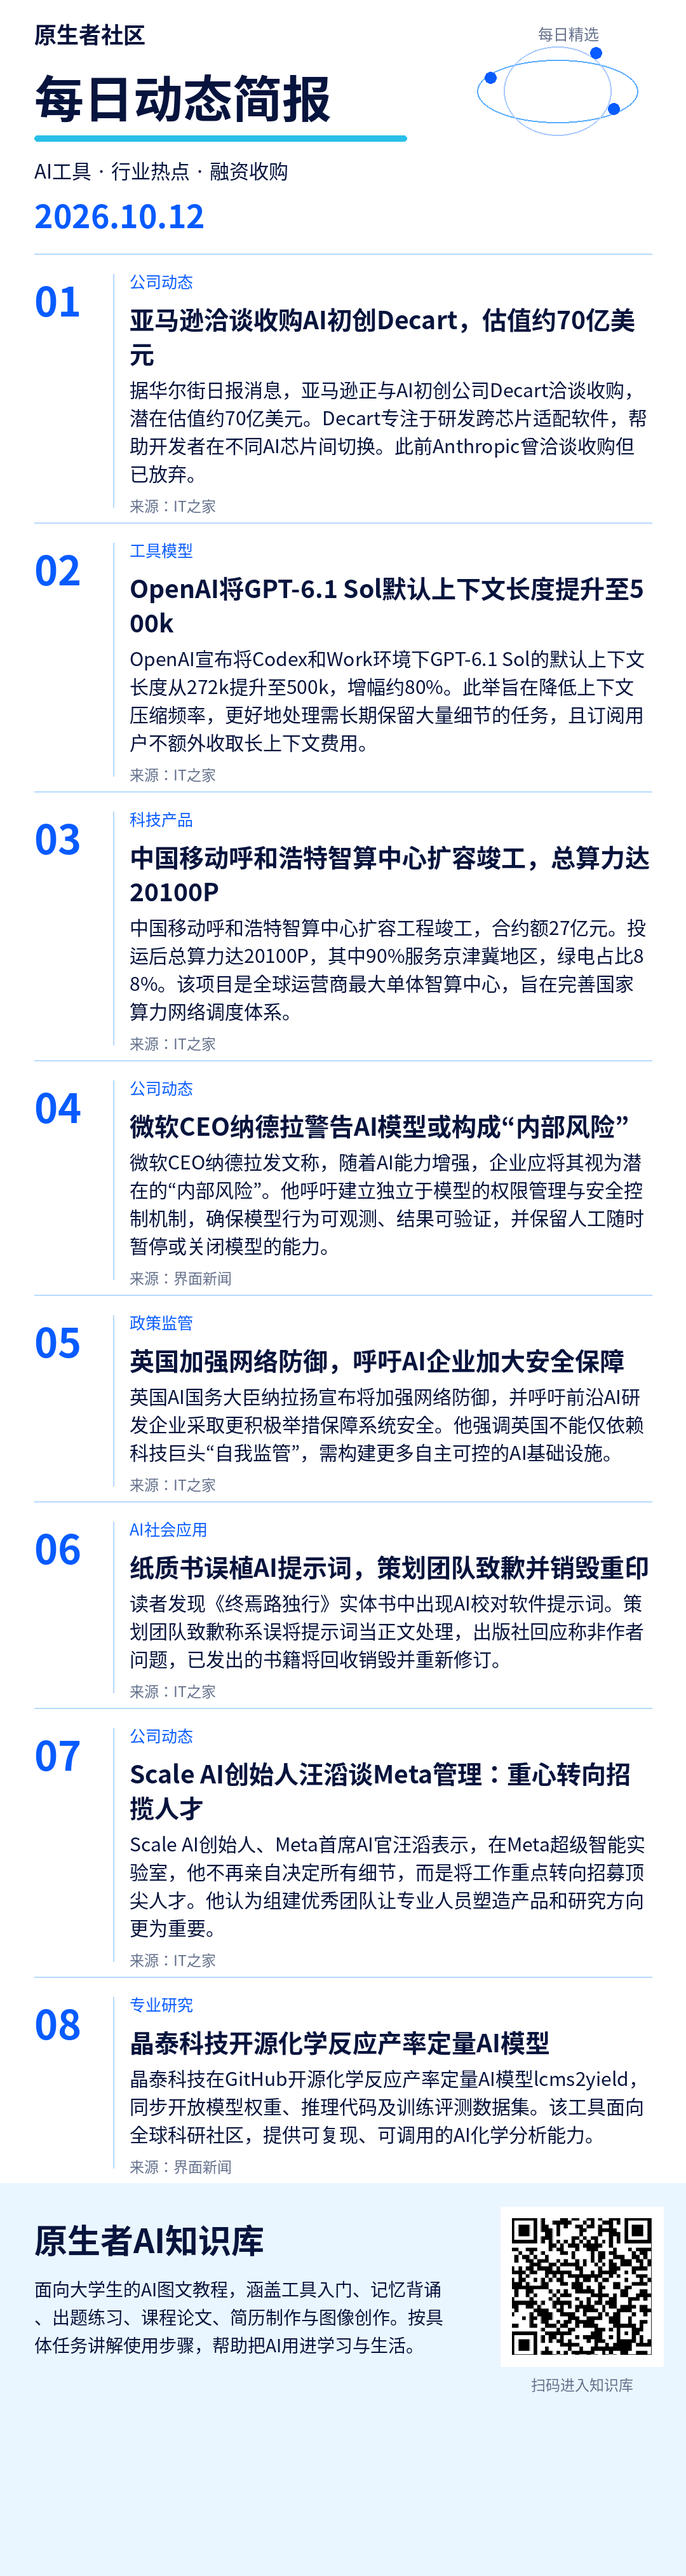
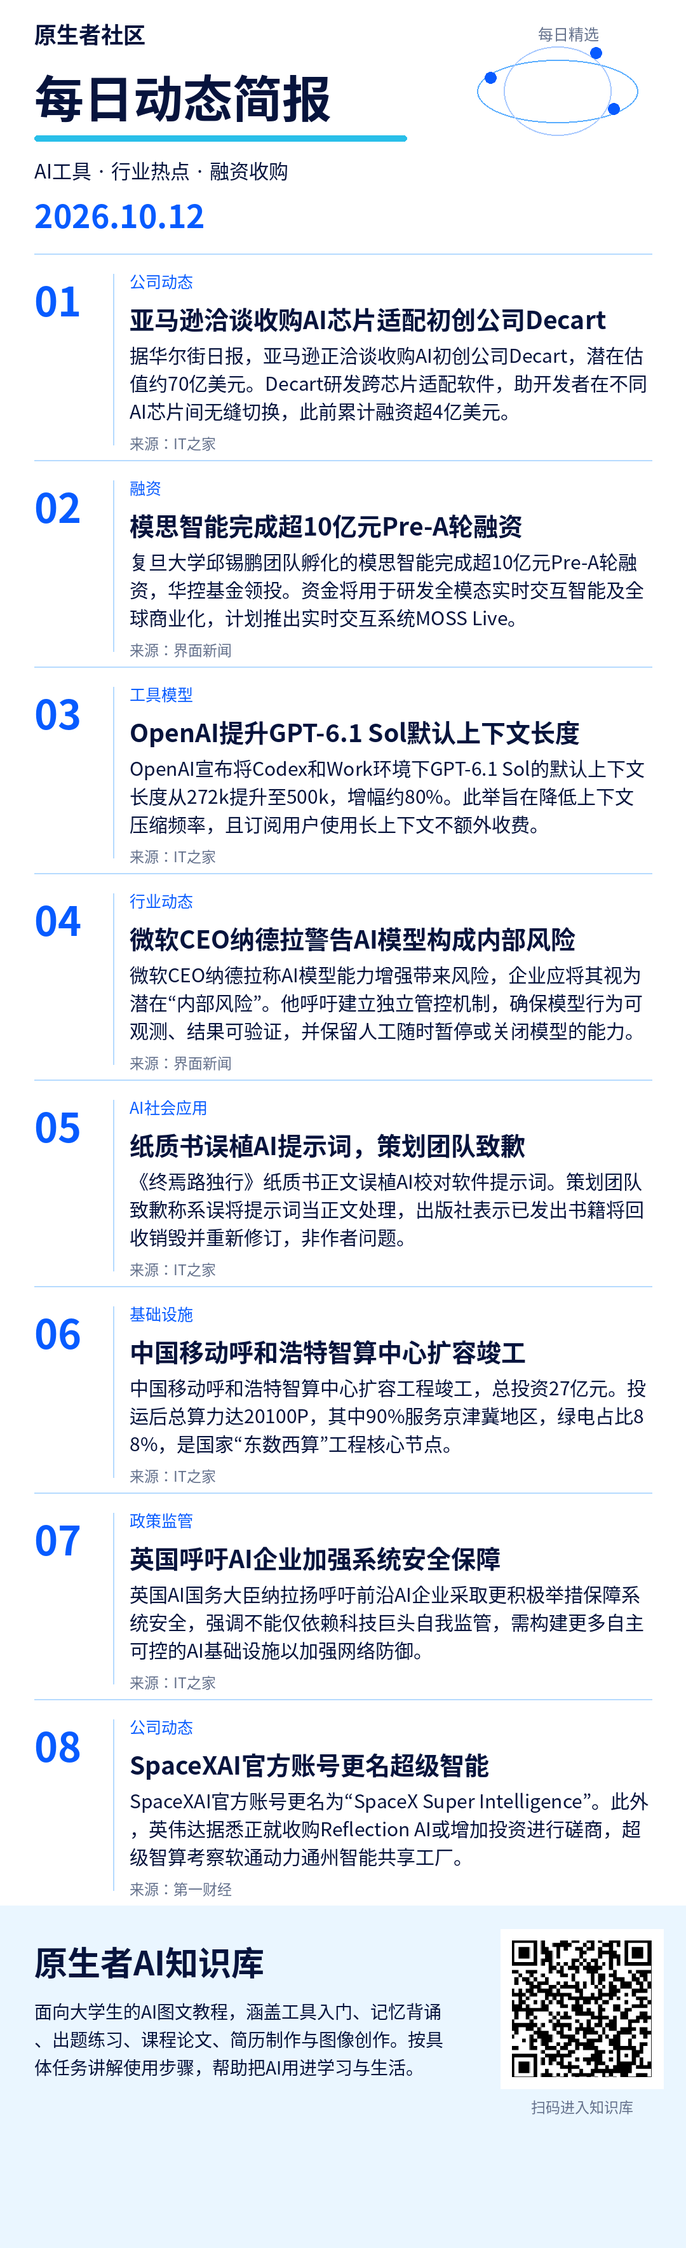
Publish mobile brief 2026-10-12

diff --git a/2026-10-12/f2ae4f191c3f8c98/index.html b/2026-10-12/f2ae4f191c3f8c98/index.html
@@ -1,0 +1,17 @@
+<!doctype html>
+<html lang="zh-CN"><meta charset="utf-8"><meta name="viewport" content="width=device-width, initial-scale=1">
+<title>原生者社区 · 每日简报</title>
+<style>body{margin:0;background:#f4f6fa;color:#18263d;font-family:system-ui,sans-serif}main{max-width:680px;margin:auto;padding:24px 16px}h1{font-size:25px;margin:8px 0}p{line-height:1.7}small{color:#59677c}section{background:white;padding:20px;border-radius:16px;margin:20px 0}img{width:100%;height:auto;display:block}a,button{display:inline-block;background:#182f55;color:white;padding:12px 18px;border:0;border-radius:10px;text-decoration:none;font-size:16px}textarea{box-sizing:border-box;width:100%;height:360px;border:1px solid #d5dce7;border-radius:10px;padding:12px;font:16px/1.7 system-ui;resize:vertical}#status{min-height:28px;color:#345786}</style>
+<main><small>原生者社区</small><h1>每日动态简报</h1><p>2026-10-12</p>
+<section><h2>简报图片</h2><p>长按下面的图片，选择“保存图片”，即可发到群里。</p>
+<a href="brief.png" target="_blank" rel="noopener">打开完整图片</a><p></p><img src="brief.png" alt="原生者社区每日简报"></section>
+<section><h2>每日群发内容</h2><p><a href="https://www.ithome.com/1/011/720.htm" target="_blank" rel="noopener">亚马逊洽谈收购AI芯片适配初创公司Decart</a></p><p><a href="https://www.jiemian.com/article/15178020.html" target="_blank" rel="noopener">模思智能完成超10亿元Pre-A轮融资</a></p><p><a href="https://wcno0em1rfbm.feishu.cn/wiki/KIZdwvoFaiIIPFk9DsUckOXcnXc" target="_blank" rel="noopener">日常学习 AI 平台推荐及使用</a></p><textarea id="copy" readonly>1. 亚马逊洽谈收购AI芯片适配初创公司Decart
+https://www.ithome.com/1/011/720.htm
+
+2. 模思智能完成超10亿元Pre-A轮融资
+https://www.jiemian.com/article/15178020.html
+
+知识库这篇《日常学习 AI 平台推荐及使用》，介绍了从导入课件到生成报告、思维导图与交互式课堂的学习入口，适合想了解这些平台怎么用的同学。
+https://wcno0em1rfbm.feishu.cn/wiki/KIZdwvoFaiIIPFk9DsUckOXcnXc</textarea><p></p>
+<button id="copyButton" type="button">复制群发内容</button><p id="status" role="status"></p></section></main>
+<script>document.getElementById('copyButton').onclick=async()=>{const t=document.getElementById('copy');const s=document.getElementById('status');try{await navigator.clipboard.writeText(t.value);s.textContent='已复制，可以粘贴到群里。';}catch(e){t.focus();t.select();t.setSelectionRange(0,t.value.length);try{if(!document.execCommand('copy'))throw Error();s.textContent='已复制，可以粘贴到群里。';}catch(e){s.textContent='已选中配文，请长按文字，选择复制。';}}};</script></html>

diff --git a/2026-10-12/index.html b/2026-10-12/index.html
@@ -5,11 +5,11 @@
 <main><small>原生者社区</small><h1>每日动态简报</h1><p>2026-10-12</p>
 <section><h2>简报图片</h2><p>长按下面的图片，选择“保存图片”，即可发到群里。</p>
 <a href="brief.png" target="_blank" rel="noopener">打开完整图片</a><p></p><img src="brief.png" alt="原生者社区每日简报"></section>
-<section><h2>每日群发内容</h2><p><a href="https://www.ithome.com/1/011/720.htm" target="_blank" rel="noopener">亚马逊洽谈收购AI初创Decart，估值约70亿美元</a></p><p><a href="https://www.ithome.com/1/011/736.htm" target="_blank" rel="noopener">OpenAI将GPT-6.1 Sol默认上下文长度提升至500k</a></p><p><a href="https://wcno0em1rfbm.feishu.cn/wiki/KIZdwvoFaiIIPFk9DsUckOXcnXc" target="_blank" rel="noopener">日常学习 AI 平台推荐及使用</a></p><textarea id="copy" readonly>1. 亚马逊洽谈收购AI初创Decart，估值约70亿美元
+<section><h2>每日群发内容</h2><p><a href="https://www.ithome.com/1/011/720.htm" target="_blank" rel="noopener">亚马逊洽谈收购AI芯片适配初创公司Decart</a></p><p><a href="https://www.jiemian.com/article/15178020.html" target="_blank" rel="noopener">模思智能完成超10亿元Pre-A轮融资</a></p><p><a href="https://wcno0em1rfbm.feishu.cn/wiki/KIZdwvoFaiIIPFk9DsUckOXcnXc" target="_blank" rel="noopener">日常学习 AI 平台推荐及使用</a></p><textarea id="copy" readonly>1. 亚马逊洽谈收购AI芯片适配初创公司Decart
 https://www.ithome.com/1/011/720.htm
 
-2. OpenAI将GPT-6.1 Sol默认上下文长度提升至500k
-https://www.ithome.com/1/011/736.htm
+2. 模思智能完成超10亿元Pre-A轮融资
+https://www.jiemian.com/article/15178020.html
 
 知识库这篇《日常学习 AI 平台推荐及使用》，介绍了从导入课件到生成报告、思维导图与交互式课堂的学习入口，适合想了解这些平台怎么用的同学。
 https://wcno0em1rfbm.feishu.cn/wiki/KIZdwvoFaiIIPFk9DsUckOXcnXc</textarea><p></p>

diff --git a/index.html b/index.html
@@ -5,11 +5,11 @@
 <main><small>原生者社区</small><h1>每日动态简报</h1><p>2026-10-12</p>
 <section><h2>简报图片</h2><p>长按下面的图片，选择“保存图片”，即可发到群里。</p>
 <a href="brief.png" target="_blank" rel="noopener">打开完整图片</a><p></p><img src="brief.png" alt="原生者社区每日简报"></section>
-<section><h2>每日群发内容</h2><p><a href="https://www.ithome.com/1/011/720.htm" target="_blank" rel="noopener">亚马逊洽谈收购AI初创Decart，估值约70亿美元</a></p><p><a href="https://www.ithome.com/1/011/736.htm" target="_blank" rel="noopener">OpenAI将GPT-6.1 Sol默认上下文长度提升至500k</a></p><p><a href="https://wcno0em1rfbm.feishu.cn/wiki/KIZdwvoFaiIIPFk9DsUckOXcnXc" target="_blank" rel="noopener">日常学习 AI 平台推荐及使用</a></p><textarea id="copy" readonly>1. 亚马逊洽谈收购AI初创Decart，估值约70亿美元
+<section><h2>每日群发内容</h2><p><a href="https://www.ithome.com/1/011/720.htm" target="_blank" rel="noopener">亚马逊洽谈收购AI芯片适配初创公司Decart</a></p><p><a href="https://www.jiemian.com/article/15178020.html" target="_blank" rel="noopener">模思智能完成超10亿元Pre-A轮融资</a></p><p><a href="https://wcno0em1rfbm.feishu.cn/wiki/KIZdwvoFaiIIPFk9DsUckOXcnXc" target="_blank" rel="noopener">日常学习 AI 平台推荐及使用</a></p><textarea id="copy" readonly>1. 亚马逊洽谈收购AI芯片适配初创公司Decart
 https://www.ithome.com/1/011/720.htm
 
-2. OpenAI将GPT-6.1 Sol默认上下文长度提升至500k
-https://www.ithome.com/1/011/736.htm
+2. 模思智能完成超10亿元Pre-A轮融资
+https://www.jiemian.com/article/15178020.html
 
 知识库这篇《日常学习 AI 平台推荐及使用》，介绍了从导入课件到生成报告、思维导图与交互式课堂的学习入口，适合想了解这些平台怎么用的同学。
 https://wcno0em1rfbm.feishu.cn/wiki/KIZdwvoFaiIIPFk9DsUckOXcnXc</textarea><p></p>
